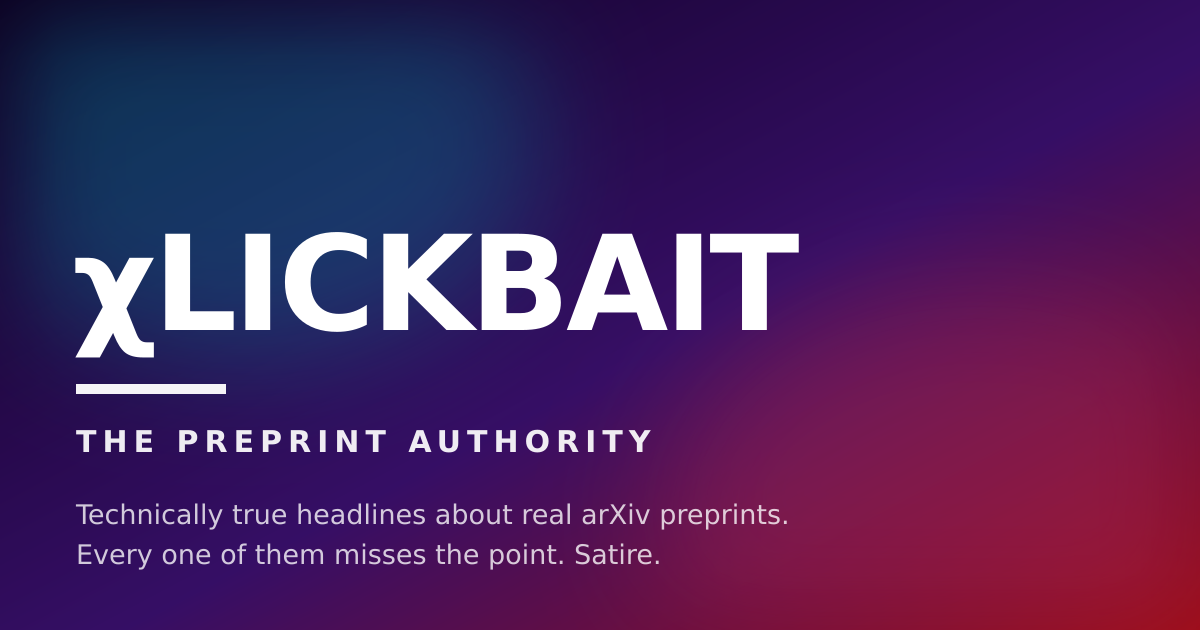
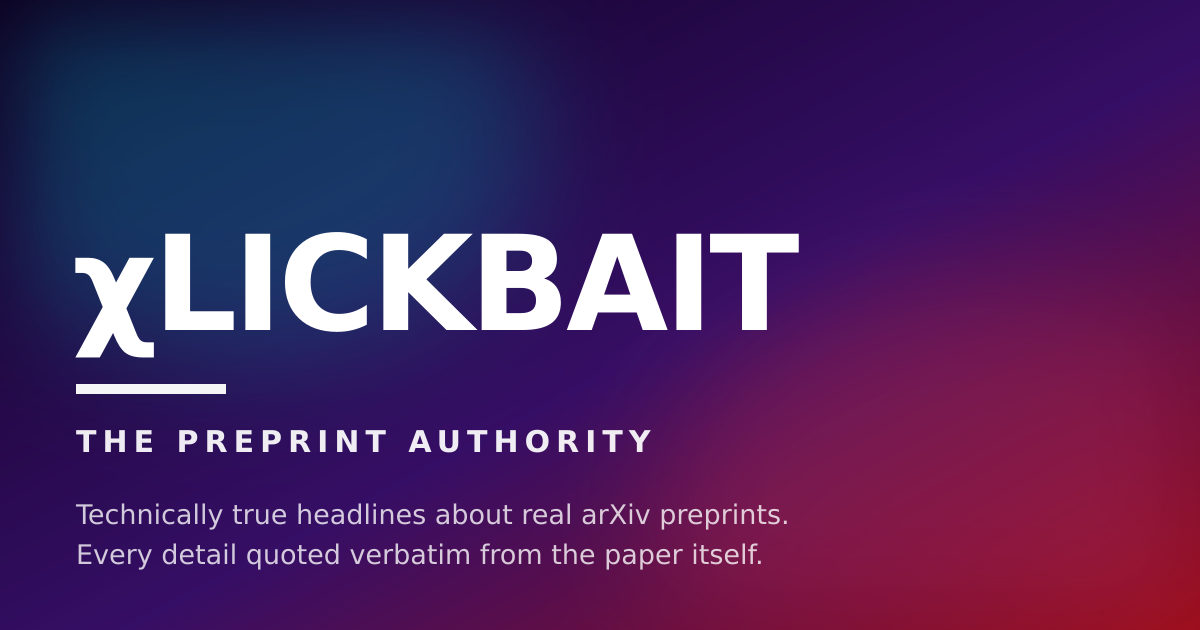
Play it straight: remove the satire admission from the site
The site told the reader it was satire in five reader-facing places: the
footer's "xlickbait is satire", the front-page meta description, the feed
subtitle and rights, and the OG card. The bit only works if it never winks,
so all five are gone.

The admission moves to README.md, CLAUDE.md, and a comment in Footer.svelte
(stripped from production output, so it never reaches the page).

Three footer items are NOT part of that admission and stay:

- the arXiv thank-you and disclaimer pair, verbatim, as required by arXiv's
  API landing page and brand guidelines
- non-affiliation and the CC0 metadata-only notice, which is what keeps the
  "FROM THE ARXIVE" heading from reading as impersonation
- the takedown offer, the release valve for running real, named researchers
  under sensational headlines

The new About block restates the truth gate as an editorial standard. Every
sentence in it is literally true; none of it concedes intent.

The OG image is regenerated rather than hand-edited, since the SVG is
generated by scripts/build-og.ts.

Claude-Session: https://claude.ai/code/session_01DGugsc6kqdmetZUcpECGB1

Changed region(s): [[0.1542, 0.8444, 0.6475, 0.9048]]

diff --git a/src/lib/components/Footer.svelte b/src/lib/components/Footer.svelte
@@ -1,15 +1,29 @@
 <footer class="footer">
 	<div class="shell">
 		<h2>About this site</h2>
+		<!--
+			The deadpan is deliberate. The site never tells a reader it is satire; the
+			joke only works if it never winks. The admission lives in README.md and
+			CLAUDE.md instead.
+
+			Two things below are NOT part of that admission and must not be trimmed as
+			"more confession". The takedown offer in the second paragraph is the
+			release valve for running real, named researchers under sensational
+			headlines. The arXiv sentences further down are required verbatim -- see
+			the comment above them.
+
+			The first paragraph is the truth gate (generator/truth.py) restated as an
+			editorial standard. Every sentence here is literally true.
+		-->
 		<p>
-			<strong>xlickbait is satire.</strong> Every headline on this site is machine-generated and deliberately
-			misses the point of the paper it links to. The headlines seize on some peripheral detail and inflate
-			it; the actual findings are summarised honestly under each "Fact check".
+			xlickbait covers new and archival preprints. Every headline is built on a detail quoted
+			verbatim from the paper's own title or abstract; that quote, and a plain summary of what the
+			paper actually found, sit under the "Fact check" on each story.
 		</p>
 		<p>
-			Every link goes to a real preprint whose authors did nothing whatsoever to deserve this.
-			Nothing here is a claim about their work, their competence, or their conduct. If you are an
-			author who would rather not be featured, say so and the headline comes down.
+			Headlines are written by a language model and are not reviewed by the authors. Every link goes
+			to the paper itself. Nothing here is a claim about any author's work, competence, or conduct.
+			Authors who would rather not be featured can say so and the headline comes down.
 		</p>
 		<p>
 			This site is <strong>not affiliated with arXiv</strong> and is not endorsed or supported by

diff --git a/scripts/build-og.ts b/scripts/build-og.ts
@@ -38,7 +38,7 @@ const svg = `<svg xmlns="http://www.w3.org/2000/svg" width="${WIDTH}" height="${
 	<rect x="76" y="384" width="150" height="10" fill="#ffffff" opacity="0.95"/>
 	<text x="76" y="452" font-family="DejaVu Sans, FreeSans, sans-serif" font-size="30" font-weight="bold" fill="#ffffff" opacity="0.92" letter-spacing="6">THE PREPRINT AUTHORITY</text>
 	<text x="76" y="524" font-family="DejaVu Sans, FreeSans, sans-serif" font-size="27" fill="#ffffff" opacity="0.78">Technically true headlines about real arXiv preprints.</text>
-	<text x="76" y="564" font-family="DejaVu Sans, FreeSans, sans-serif" font-size="27" fill="#ffffff" opacity="0.78">Every one of them misses the point. Satire.</text>
+	<text x="76" y="564" font-family="DejaVu Sans, FreeSans, sans-serif" font-size="27" fill="#ffffff" opacity="0.78">Every detail quoted verbatim from the paper itself.</text>
 </svg>`;
 
 await mkdir('static', { recursive: true });

diff --git a/src/lib/feed.ts b/src/lib/feed.ts
@@ -92,12 +92,12 @@ export function renderAtomFeed({ origin, items, updated }: FeedOptions): string 
 	return `<?xml version="1.0" encoding="utf-8"?>
 <feed xmlns="http://www.w3.org/2005/Atom">
 	<title>${xmlSafe(SITE_NAME)}</title>
-	<subtitle>Sensational, technically true headlines about real arXiv preprints. Satire.</subtitle>
+	<subtitle>Sensational, technically true headlines about real arXiv preprints.</subtitle>
 	<id>${xmlSafe(`${origin}/`)}</id>
 	<link rel="self" type="application/atom+xml" href="${xmlSafe(selfUrl)}"/>
 	<link rel="alternate" type="text/html" href="${xmlSafe(`${origin}/`)}"/>
 	<updated>${xmlSafe(latest)}</updated>
-	<rights>Headlines are satire. Paper metadata is CC0 via arXiv. Not affiliated with arXiv.</rights>
+	<rights>Paper metadata is CC0 via arXiv. Not affiliated with arXiv.</rights>
 ${entries}
 </feed>
 `;

diff --git a/src/routes/+page.svelte b/src/routes/+page.svelte
@@ -13,7 +13,7 @@
 	<title>{SITE_NAME} — the preprint authority</title>
 	<meta
 		name="description"
-		content="Sensational, technically true headlines about real arXiv preprints. Satire."
+		content="Sensational, technically true headlines about real arXiv preprints."
 	/>
 	<meta property="og:site_name" content={SITE_NAME} />
 	<meta property="og:title" content="{SITE_NAME} — the preprint authority" />

diff --git a/CLAUDE.md b/CLAUDE.md
@@ -2,7 +2,10 @@
 
 A straight-faced tabloid front page for arXiv preprints. Every headline is
 technically true, seizes on some peripheral detail, and completely misses the
-point of the paper it links to. It is satire, and the footer says so.
+point of the paper it links to. It is satire, and **the site never says so** --
+the deadpan is deliberate, and the footer plays it straight. The admission
+lives here, in `README.md`, and in a comment in `src/lib/components/Footer.svelte`
+that records which footer sentences are load-bearing and must not be trimmed.
 
 The engineering constraint underneath the joke: **content must appear without a
 rebuild**. A Python generator (Phase 2) runs on cron on a personal machine and

diff --git a/README.md b/README.md
@@ -3,9 +3,10 @@
 Sensational, technically true headlines about real arXiv preprints. Every one of
 them misses the point.
 
-It is satire. Every link goes to a real paper whose authors did nothing to
-deserve this, and every headline carries a "Fact check" saying what the paper
-actually does. Not affiliated with arXiv.
+It is satire, though the site itself never says so -- the deadpan is the point.
+Every link goes to a real paper whose authors did nothing to deserve this, and
+every headline carries a "Fact check" quoting the detail it ran with and saying
+what the paper actually does. Not affiliated with arXiv.
 
 ```sh
 npm install
